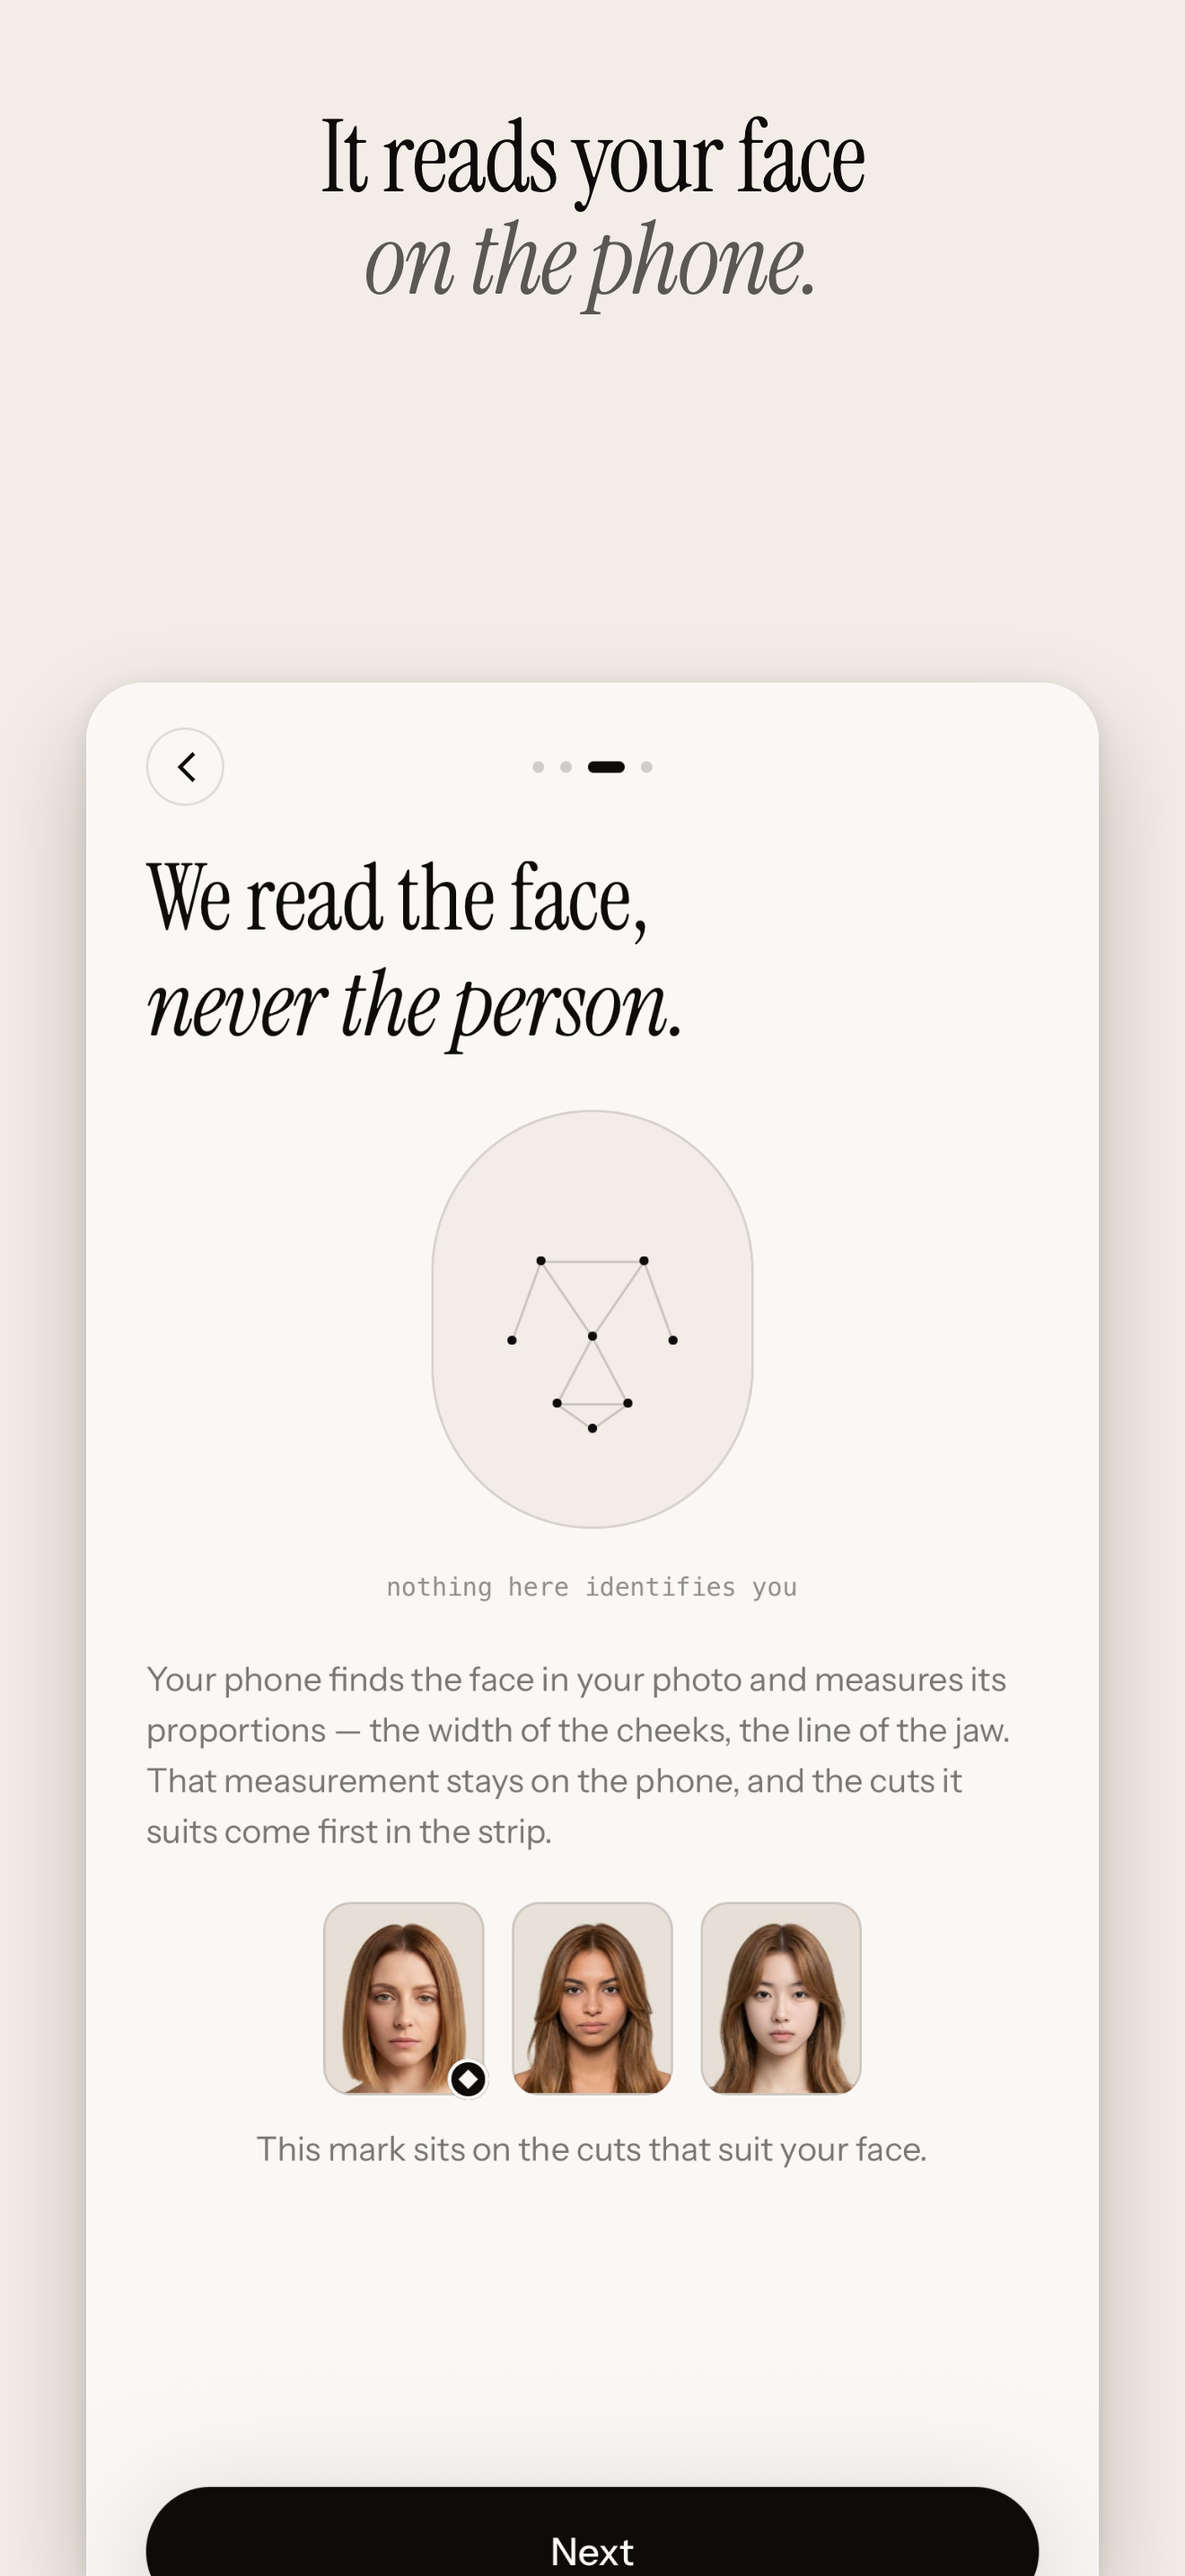
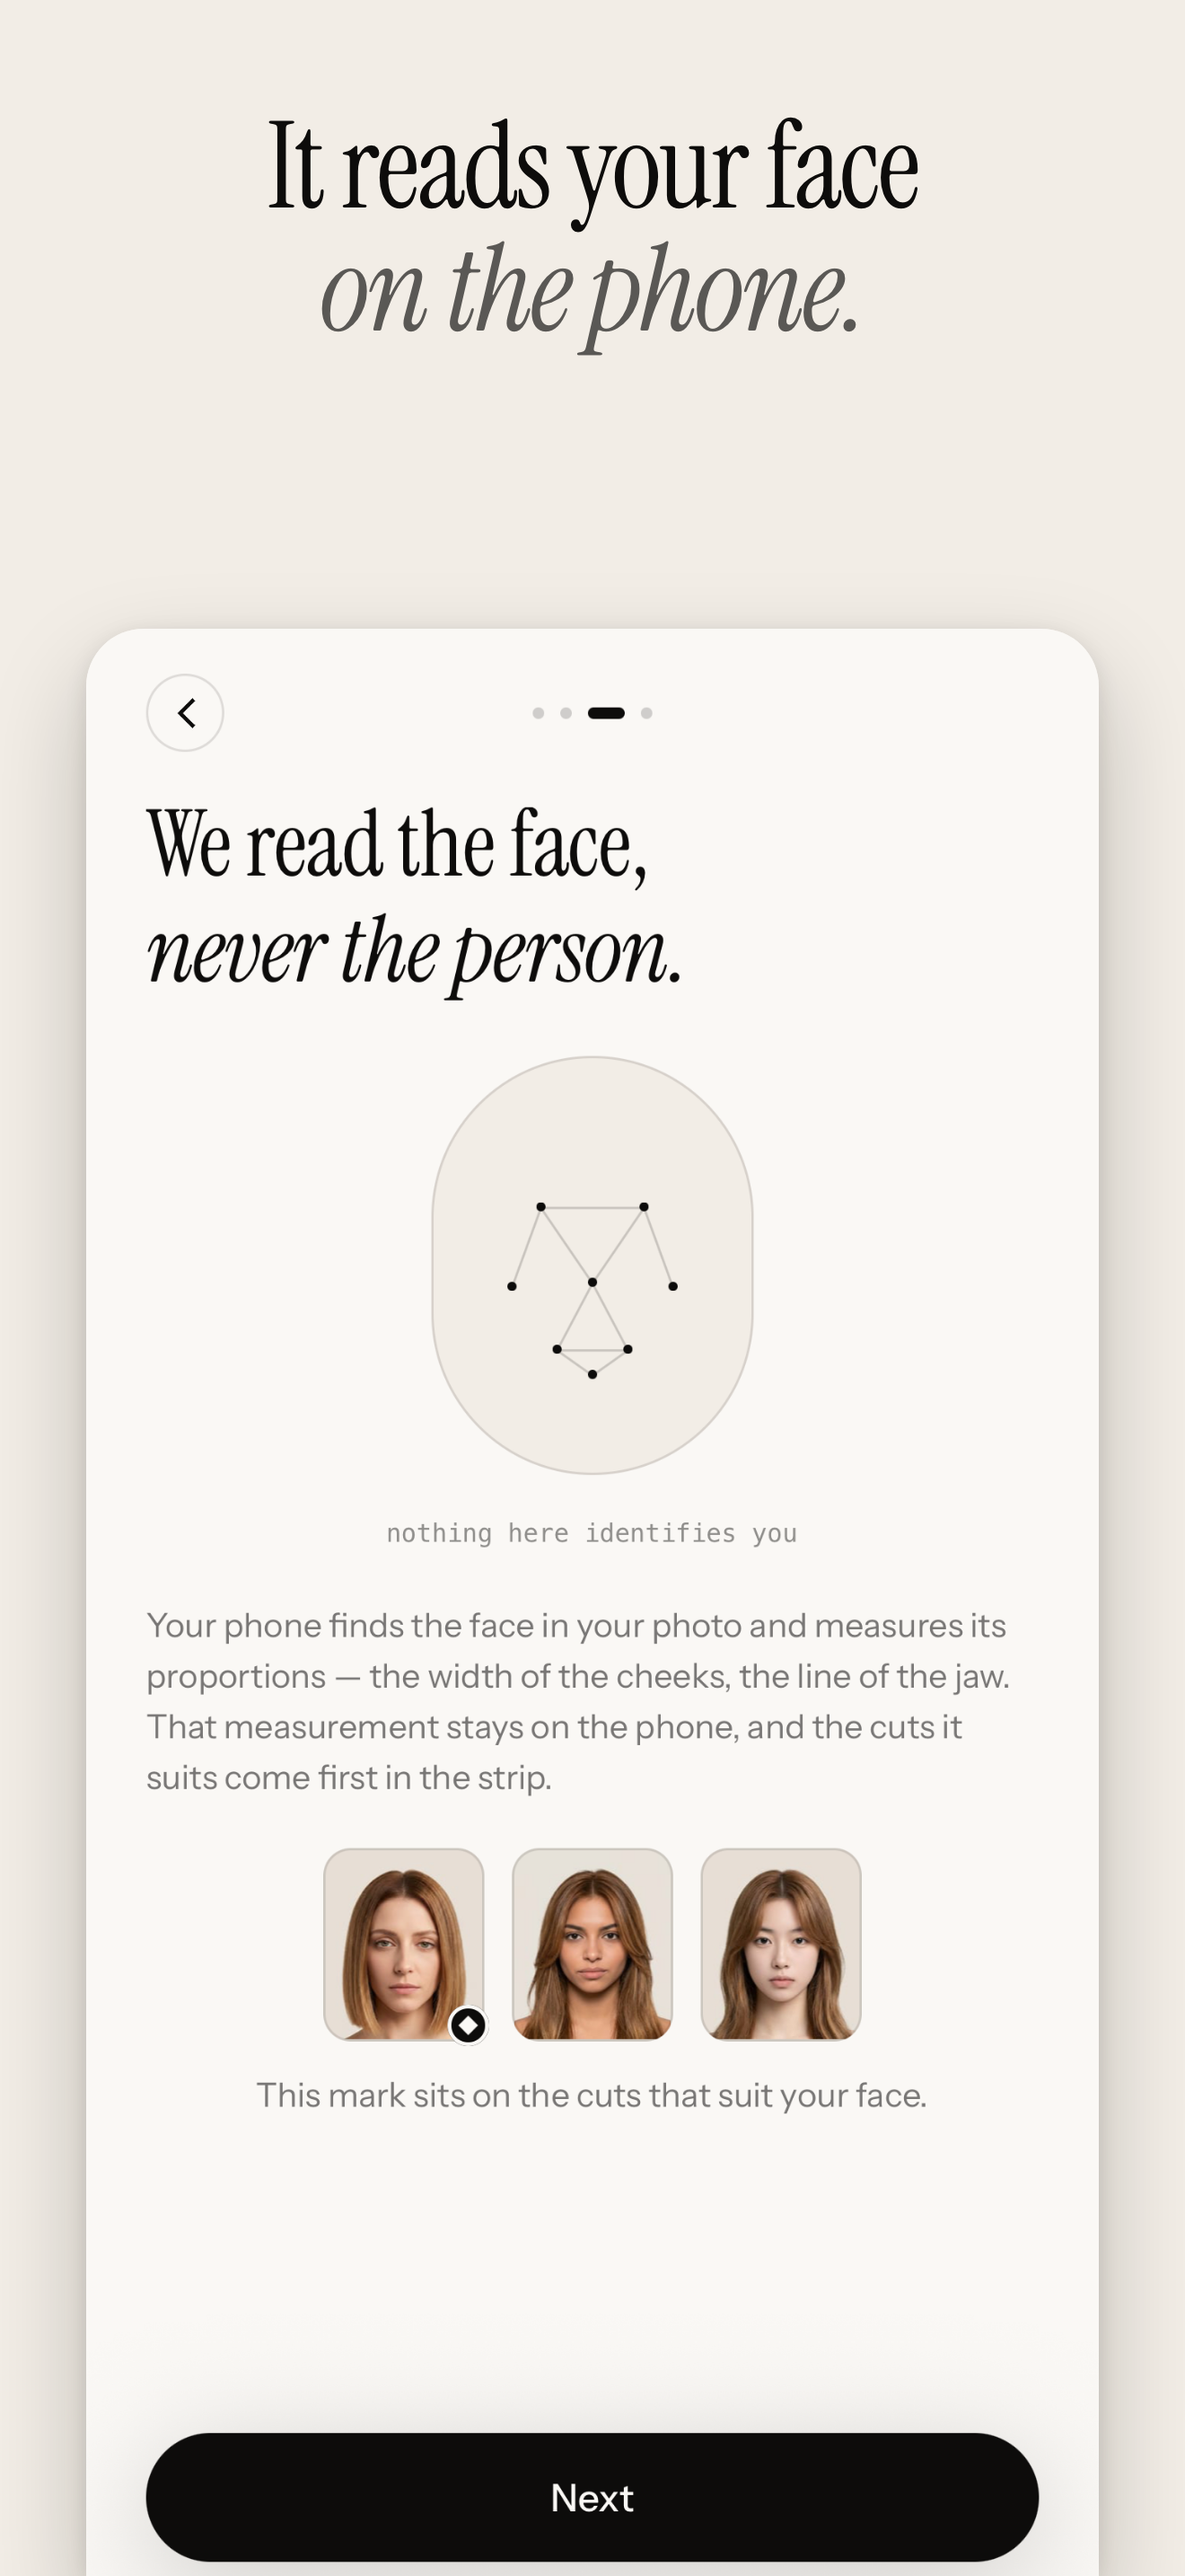
fix(store): larger statements, and a crop line chosen per panel
The capture starts lower than it did, which left room the statement was not
using: 112px to 134px, still two lines on every panel.

The window is now per panel. A crop through the middle of a button reads as a
rendering fault rather than a choice, and three of the five were cutting one in
half — "Next" on the intro panel, "Again · 1 credit" on both results. Each
panel now ends on empty space, a label, or below the last control.

diff --git a/tools/store-screenshots/panels.py b/tools/store-screenshots/panels.py
@@ -46,6 +46,7 @@ PANELS = [
         # capture are not the reader's, and two sets on one screen read as a
         # mistake — 150 clears the dynamic island as well as the text.
         top=150,
+        win=760,
     ),
     dict(
         n="02",
@@ -54,6 +55,7 @@ PANELS = [
         head="It reads your face",
         headItalic="on the phone.",
         top=150,
+        win=700,
     ),
     dict(
         n="03",
@@ -62,6 +64,7 @@ PANELS = [
         head="Then it says which cuts",
         headItalic="suit you, and why.",
         top=150,
+        win=760,
     ),
     dict(
         n="04",
@@ -70,6 +73,7 @@ PANELS = [
         head="It hands back",
         headItalic="your own face.",
         top=150,
+        win=686,
     ),
     dict(
         n="05",
@@ -78,6 +82,7 @@ PANELS = [
         head="Same face.",
         headItalic="Any cut, any colour.",
         top=150,
+        win=686,
     ),
 ]
 
@@ -91,7 +96,7 @@ html,body{width:%(W)spx;height:%(H)spx;overflow:hidden}
 body{background:%(bg)s;-webkit-font-smoothing:antialiased}
 .wrap{position:relative;width:%(W)spx;height:%(H)spx}
 h1{position:absolute;top:118px;left:0;right:0;text-align:center;
-   font-family:'Instrument Serif',Georgia,serif;font-weight:400;font-size:112px;line-height:1.02;
+   font-family:'Instrument Serif',Georgia,serif;font-weight:400;font-size:134px;line-height:1.02;
    letter-spacing:-0.02em;color:#0d0c0b}
 h1 i{display:block;opacity:.66}
 /* The capture is anchored to the bottom of the panel and cut off there: the
@@ -101,10 +106,15 @@ h1 i{display:block;opacity:.66}
 
    The arithmetic, so the next person can move it safely: at 1128 wide a
    1320 x 2868 capture is 2450 tall, less the 150 cropped off the status bar,
-   so 2300 is visible. The window is 2868 - `top`, and whatever the image has
-   left over spills past the bottom edge and is clipped. Raising `top` shows
-   more of the screen; lowering it crops more off the bottom. */
-.shot{position:absolute;left:50%%;transform:translateX(-50%%);top:760px;bottom:0;width:1128px;
+   so 2300 is visible. The window is 2868 - `win`, and whatever the image has
+   left over spills past the bottom edge and is clipped. Raising `win` shows
+   more of the screen; lowering it crops more off the bottom.
+
+   `win` is per panel because the cut has to land somewhere deliberate. A crop
+   through the middle of a button reads as a rendering fault rather than a
+   choice, so each panel is set to end on empty space, a label, or below the
+   last control — never across one. */
+.shot{position:absolute;left:50%%;transform:translateX(-50%%);top:%(win)spx;bottom:0;width:1128px;
    border-radius:64px 64px 0 0;overflow:hidden;
    box-shadow:0 48px 110px rgba(13,12,11,.22),0 6px 24px rgba(13,12,11,.10)}
 .shot img{display:block;width:100%%;margin-top:-%(top)spx}
